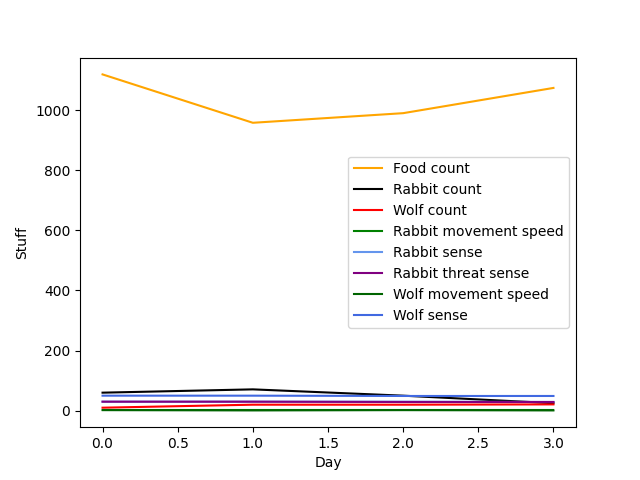
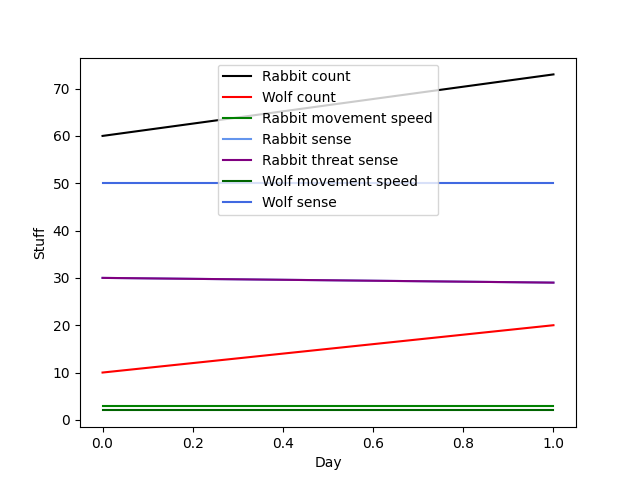
Added report id's

diff --git a/Natural_selection_simulation_2/main.py b/Natural_selection_simulation_2/main.py
@@ -10,10 +10,15 @@ import numpy as np
 import colours
 import json
 import csv
+import os
 from graph import plot
 
 with open('para.json', 'r') as para:
     config = json.load(para)
+
+with open ('ident.json', 'r') as jsonFile:
+    indent = json.load(jsonFile)
+    REPORT_ID = int(indent['id'])
 
 
 WIDTH = 800
@@ -337,7 +342,7 @@ def night_0():
     wolfS.append(wS)
 
 def main():
-    global turn, days, objectsIndex, indexMap, objectsDictionary, returningAnimals, wolfCount, rabbitCount, foodCount, rabbitMS, rabbitS, rabbitT, wolfMS, wolfS 
+    global turn, days, objectsIndex, indexMap, objectsDictionary, returningAnimals, wolfCount, rabbitCount, foodCount, rabbitMS, rabbitS, rabbitT, wolfMS, wolfS, REPORT_ID, indent
     running = True
 
     while running:
@@ -368,9 +373,14 @@ def main():
             if event.type == pg.QUIT:
                 pg.quit()
                 sys.exit("quit")
-        if days == 50:
+        if days == 2:
             running = False
             pg.quit()
-            plot(wolfCount, rabbitCount, rabbitMS, rabbitS, rabbitT, wolfMS, wolfS, 11)     
+            plot(wolfCount, rabbitCount, rabbitMS, rabbitS, rabbitT, wolfMS, wolfS, REPORT_ID)
+            indent['id'] = REPORT_ID + 1
+            with open ('ident.json', 'w') as jsonFile:
+                json.dump(indent, jsonFile)
+            report_name = 'report_' + str(REPORT_ID) + '.csv'
+            os.rename('report.csv', report_name)
 
 main()
